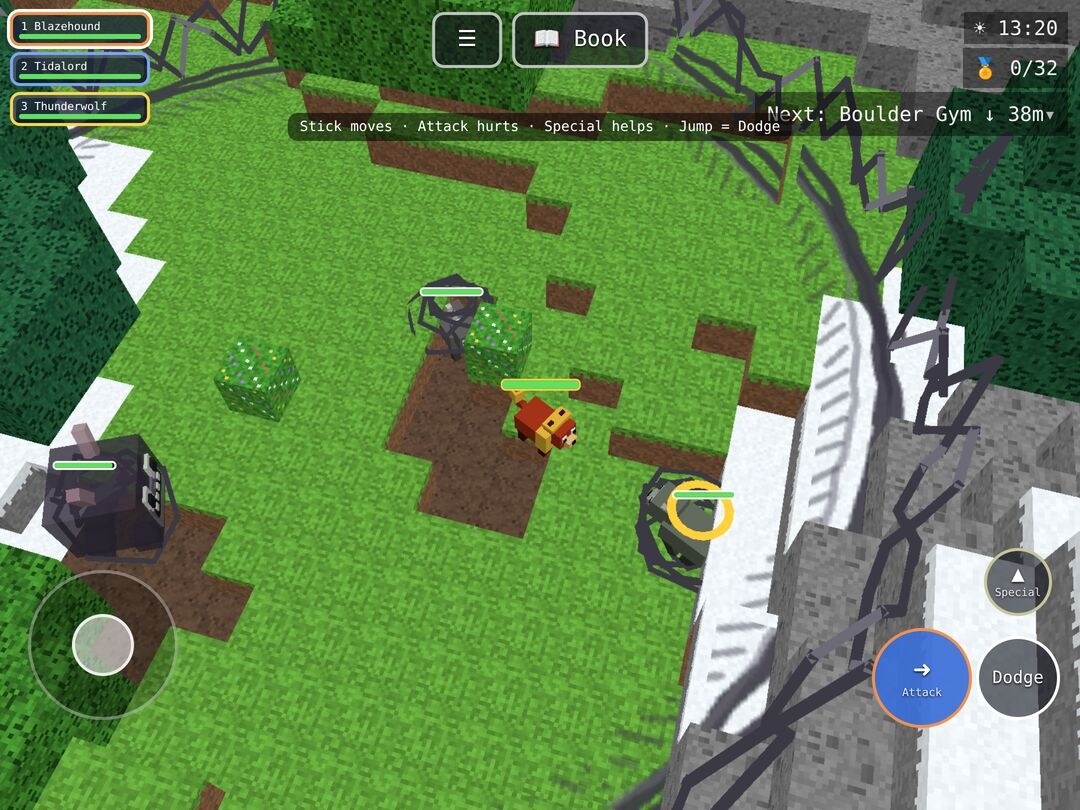
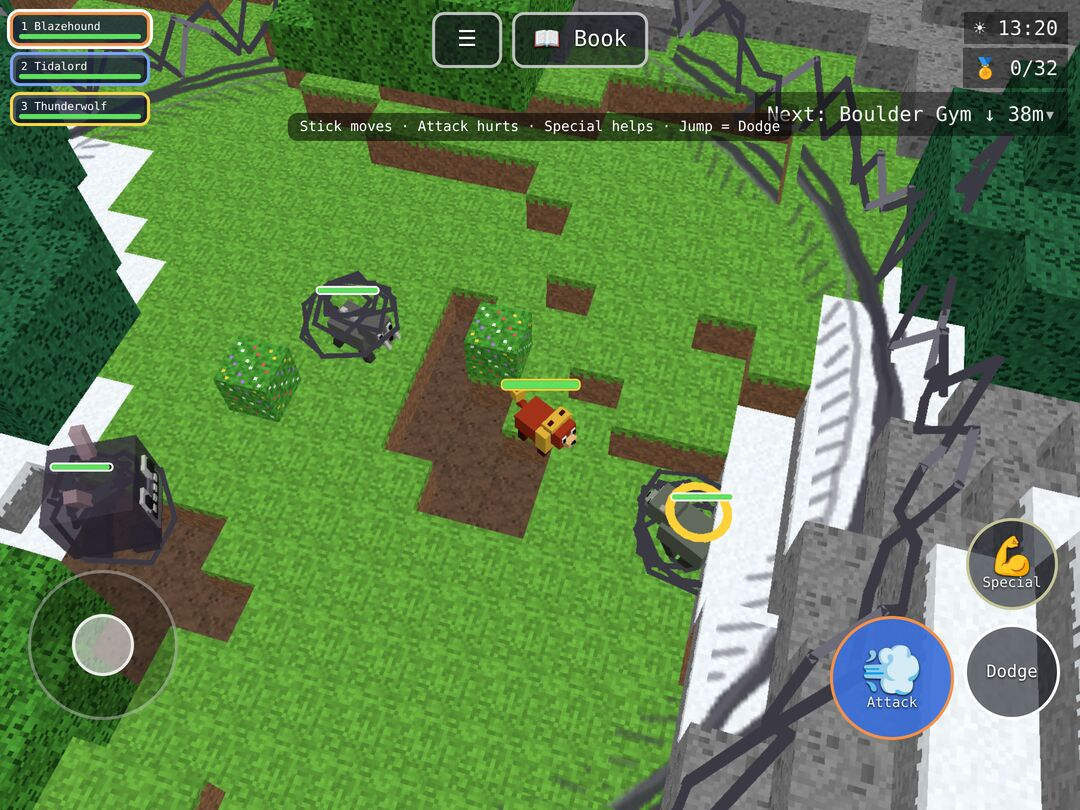
Scribble: the patch finds a spot on busy worlds (only placed blocks inside the ring count, searches further out); bigger fight buttons with real emojis
Claude-Session: https://claude.ai/code/session_01Xr3DsUGBTnfUWyFFG6Q4oG

diff --git a/src/scribble.js b/src/scribble.js
@@ -37,15 +37,18 @@ const KEY_NAMES = ['Space', 'Q', 'E'];
 
 // ---------------------------------------------------------------- where the patch goes (pure: the spec checks it on its own)
 
-// The best spot 14-23 blocks from (sx, sz), ahead of `yaw` if given (owner 2026-11-09: it was pinned to the world's start, and a player who
+// The best spot 14-23 blocks from (sx, sz) (else 27-40, else 48-64), ahead of `yaw` if given (owner 2026-11-09: it was pinned to the world's start, and a player who
 // starts near their home never saw it): mostly dry land, no gym or tower box, nothing anybody built within the ring, not too steep.
 export function scribbleSpot(world, sx, sz, yaw = null) {
   const g = groundOf(world), R = FIGHT.R;
+  // owner 2026-11-10 ("my son doesn't see it"): only PLACED blocks count as built (a dug-out block is air: the old rule counted every
+  // change, so one dug block every 16 round a child's play area left no spot at all), only inside the ring, and the search goes further
+  // out when nothing near fits
   const built = new Set();
-  for (const i of world.edits?.keys?.() || []) { const x = i % world.W, z = Math.floor(i / world.W) % world.D; built.add(x + z * world.W); }
-  const nearBuild = (cx, cz) => { for (let x = -R - 2; x <= R + 2; x++) for (let z = -R - 2; z <= R + 2; z++) if (built.has(Math.floor(cx + x) + Math.floor(cz + z) * world.W)) return true; return false; };
+  for (const [i, id] of world.edits?.entries?.() || []) { if (!id) continue; const x = i % world.W, z = Math.floor(i / world.W) % world.D; built.add(x + z * world.W); }
+  const nearBuild = (cx, cz) => { for (let x = -R - 1; x <= R + 1; x++) for (let z = -R - 1; z <= R + 1; z++) if (x * x + z * z <= (R + 1) * (R + 1) && built.has(Math.floor(cx + x) + Math.floor(cz + z) * world.W)) return true; return false; };
   let best = null;
-  for (const d of [14, 17, 20, 23]) for (let k = 0; k < 24; k++) {
+  for (const ring of [[14, 17, 20, 23], [27, 31, 35, 40], [48, 56, 64]]) { if (best) break; for (const d of ring) for (let k = 0; k < 24; k++) {
     const a = k / 24 * Math.PI * 2, cx = Math.floor(sx + Math.cos(a) * d) + 0.5, cz = Math.floor(sz + Math.sin(a) * d) + 0.5;
     if (cx < R + 3 || cz < R + 3 || cx > world.W - R - 3 || cz > world.D - R - 3) continue;
     const cy = g.floor(cx, cz, world.ground[Math.floor(cx) + Math.floor(cz) * world.W] + 2.5);
@@ -66,7 +69,7 @@ export function scribbleSpot(world, sx, sz, yaw = null) {
     const range = hi - lo;
     const score = land / n - 2 * water / n - (range > 5 ? 1 : 0) + 0.04 * Math.min(walls, 8) + 0.03 * Math.min(range, 4) + (yaw == null ? 0.08 * -Math.sin(a) : 0.35 * (Math.cos(a) * -Math.sin(yaw) + Math.sin(a) * -Math.cos(yaw))) - d * 0.004;
     if (!best || score > best.score) best = { x: cx, z: cz, y: cy, score, walls, water, range, d };
-  }
+  } }
   return best;
 }
 
@@ -335,17 +338,20 @@ export function createScribble(game) {
 #sc-ui .mate.lead { box-shadow: 0 0 0 3px #fff; } #sc-ui .mate.out { opacity: .35; }
 #sc-ui .moves { position: absolute; left: 50%; bottom: 18px; transform: translateX(-50%); display: flex; gap: 8px; }
 body.touch #sc-ui .moves { display: none; }
-#sc-ui .mv { --col: #e8eef7; position: relative; min-width: 92px; padding: 6px 8px 4px; border-radius: 10px; border: 3px solid var(--col); background: #1d2438d9; color: #fff; font-size: 11px; text-align: center; overflow: hidden; }
-#sc-ui .mv small { display: block; opacity: .75; font-size: 9px; margin-top: 3px; }
+#sc-ui .mv { --col: #e8eef7; position: relative; min-width: 120px; padding: 8px 10px 5px; border-radius: 12px; border: 3px solid var(--col); background: #1d2438d9; color: #fff; font-size: 14px; text-align: center; overflow: hidden; }
+#sc-ui .mv small { display: block; opacity: .75; font-size: 11px; margin-top: 3px; }
 #sc-ui .mv kbd { display: block; font: inherit; font-size: 9px; opacity: .6; margin-top: 3px; }
 #sc-ui .mv .cd { position: absolute; left: 0; bottom: 0; height: 100%; background: #000a; }
 #sc-ui .mv.on { background: color-mix(in srgb, var(--col) 55%, #1d2438); }
 body.scribbling #hotbar, body.scribbling #cubes, body.scribbling #party-mini, body.scribbling #crosshair.sc-behind, body.scribbling #prompt { display: none !important; }
 #touch.fight #btn-down, #touch.fight #btn-ride { display: none !important; }
-#sc-ui .mv b { display: block; font-size: 18px; line-height: 1.1; }
-#touch.fight #touch-buttons button .sc-ic { display: block; font-size: 30px; line-height: 1; }
-#touch.fight #touch-buttons button .sc-w { display: block; font-size: 11px; line-height: 1.2; opacity: .85; }
-#touch.fight #touch-buttons #btn-place .sc-ic { font-size: 22px; }
+#sc-ui .mv b { display: block; font-size: 30px; line-height: 1.15; }
+#touch.fight #btn-act { width: 124px !important; height: 124px !important; right: calc(126px + env(safe-area-inset-right)); bottom: 70px; }
+#touch.fight #btn-jump { width: 96px !important; height: 96px !important; font-size: 19px !important; }
+#touch.fight #btn-place { width: 92px !important; height: 92px !important; right: calc(22px + env(safe-area-inset-right)); bottom: 200px; }
+#touch.fight #touch-buttons button .sc-ic { display: block; font-size: 50px; line-height: 1; }
+#touch.fight #touch-buttons button .sc-w { display: block; font-size: 14px; line-height: 1.2; opacity: .9; }
+#touch.fight #touch-buttons #btn-place .sc-ic { font-size: 38px; }
 #touch.fight #touch-buttons button { border-color: var(--sc-col, #fff) !important; }
 #touch.fight #touch-buttons button.sc-on { background: rgba(255,255,255,.45) !important; }
 `;
@@ -406,8 +412,12 @@ body.scribbling #hotbar, body.scribbling #cubes, body.scribbling #party-mini, bo
     ui.squad.classList.toggle('hidden', F.squad.length < 2);
   }
   // the moves: the five fixed tablet slots get the fight's words; a computer gets a bar with the keys
+  // owner 2026-11-10 ("buttons should be bigger, especially the emojis"): the fight's buttons show real emojis (the move kinds' own
+  // icons are plain symbols that draw tiny in the game's font); never a star
+  const BIG_ICON = { bolt: '🔵', volley: '🎊', burst: '💥', dash: '💨', heal: '💚', buff: '💪', tough: '🛡', cloud: '🐌', sleep: '💤' };
+  const bigIcon = p => (p.move ? BIG_ICON[p.move.kind === 'buff' && p.move.stat === 'def' ? 'tough' : p.move.kind] ?? p.icon : p.icon);
   function drawPad() {
-    const pad = S.fight.pad();
+    const pad = S.fight.pad().map(p => ({ ...p, icon: bigIcon(p) }));
     const key = JSON.stringify(pad.map(p => [p.move?.id, p.dim, p.on, Math.round((p.cd || 0) * 20)]));
     if (ui.cache.pad === key) return;
     ui.cache.pad = key;

diff --git a/plans/chapter3.md b/plans/chapter3.md
@@ -448,3 +448,14 @@ Either way every kind gets a fixed icon and colour on its button and on the grou
   hitting harder (power 70: mashing 6 / 48 instead of 7 / 48, but the person and skilled bots lost now and then). The spec now judges
   mashing over 12 fights at each frame rate per world, all together under a quarter (4 fights were too few to tell 10 % from 25 %).
 - Person bot: 34-80 s a fight, skilled 23-28 s, all won.
+
+### Owner 2026-11-10: bigger buttons, and "my son doesn't see the scribble on his account / tablet"
+
+- **Why the patch was missing on a busy world:** the rule that keeps it off your builds counted EVERY changed block (a dug-out block too)
+  and checked a 12-block square round every candidate. Measured: with one dug block every 16 blocks round where you start, no spot was
+  found at all (the owner's world, with fewer changes near the Champion's Tower, had one). Now only placed blocks inside the ring count,
+  dug ones never; if nothing 14-23 blocks away fits, it looks 27-40 and then 48-64 blocks away. A world with a placed block every 2-6
+  blocks over 80 x 80 now gets a patch 56 blocks away. (The other possible reason: `?preview` must be in the address on the tablet too.)
+- **Bigger buttons in a fight:** Attack 100 -> 124 px, Dodge 84 -> 96, Special 68 -> 92; the icons are real emojis drawn 50 px / 38 px:
+  🔵 shot, 🎊 many shots, 💥 big blast, 💨 rush, 💚 heal, 💪 power up, 🛡 Tough, 🐌 slow cloud, 💤 sleepy cloud (the move kinds' own
+  plain symbols, now in `movekinds.js`, drew tiny in the game's font; only the fight's buttons map them). Desktop cards bigger too.
